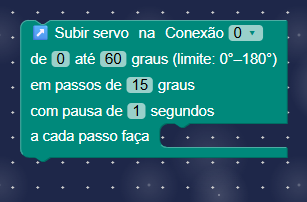
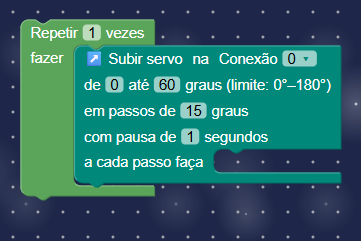
fix: support gradual servos inside repeat blocks

diff --git a/src/js/blocks/generators/servo.js b/src/js/blocks/generators/servo.js
@@ -180,6 +180,7 @@
     var pauseName = distinctName('servo_pause');
     var angleName = distinctName('servo_angle');
     var comparison = ascending ? '<' : '>';
+    var loopComparison = ascending ? '<=' : '>=';
     var advance = ascending
       ? 'min(' + angleName + ' + ' + stepName + ', ' + targetName + ')'
       : 'max(' + angleName + ' - ' + stepName + ', ' + targetName + ')';
@@ -189,7 +190,7 @@
     code += stepName + ' = max(1, abs(' + stepExpression + '))\n';
     code += pauseName + ' = max(0, ' + pauseExpression + ')\n';
     code += angleName + ' = max(' + config.MIN_ANGLE + ', min(' + config.MAX_ANGLE + ', ' + startExpression + '))\n';
-    code += 'while True:\n';
+    code += 'while ' + angleName + ' ' + loopComparison + ' ' + targetName + ':\n';
     code += '  _servo_move(' + dig + ', ' + angleName + ')\n';
     code += '  time.sleep(' + pauseName + ')\n';
     code += stepActions;
